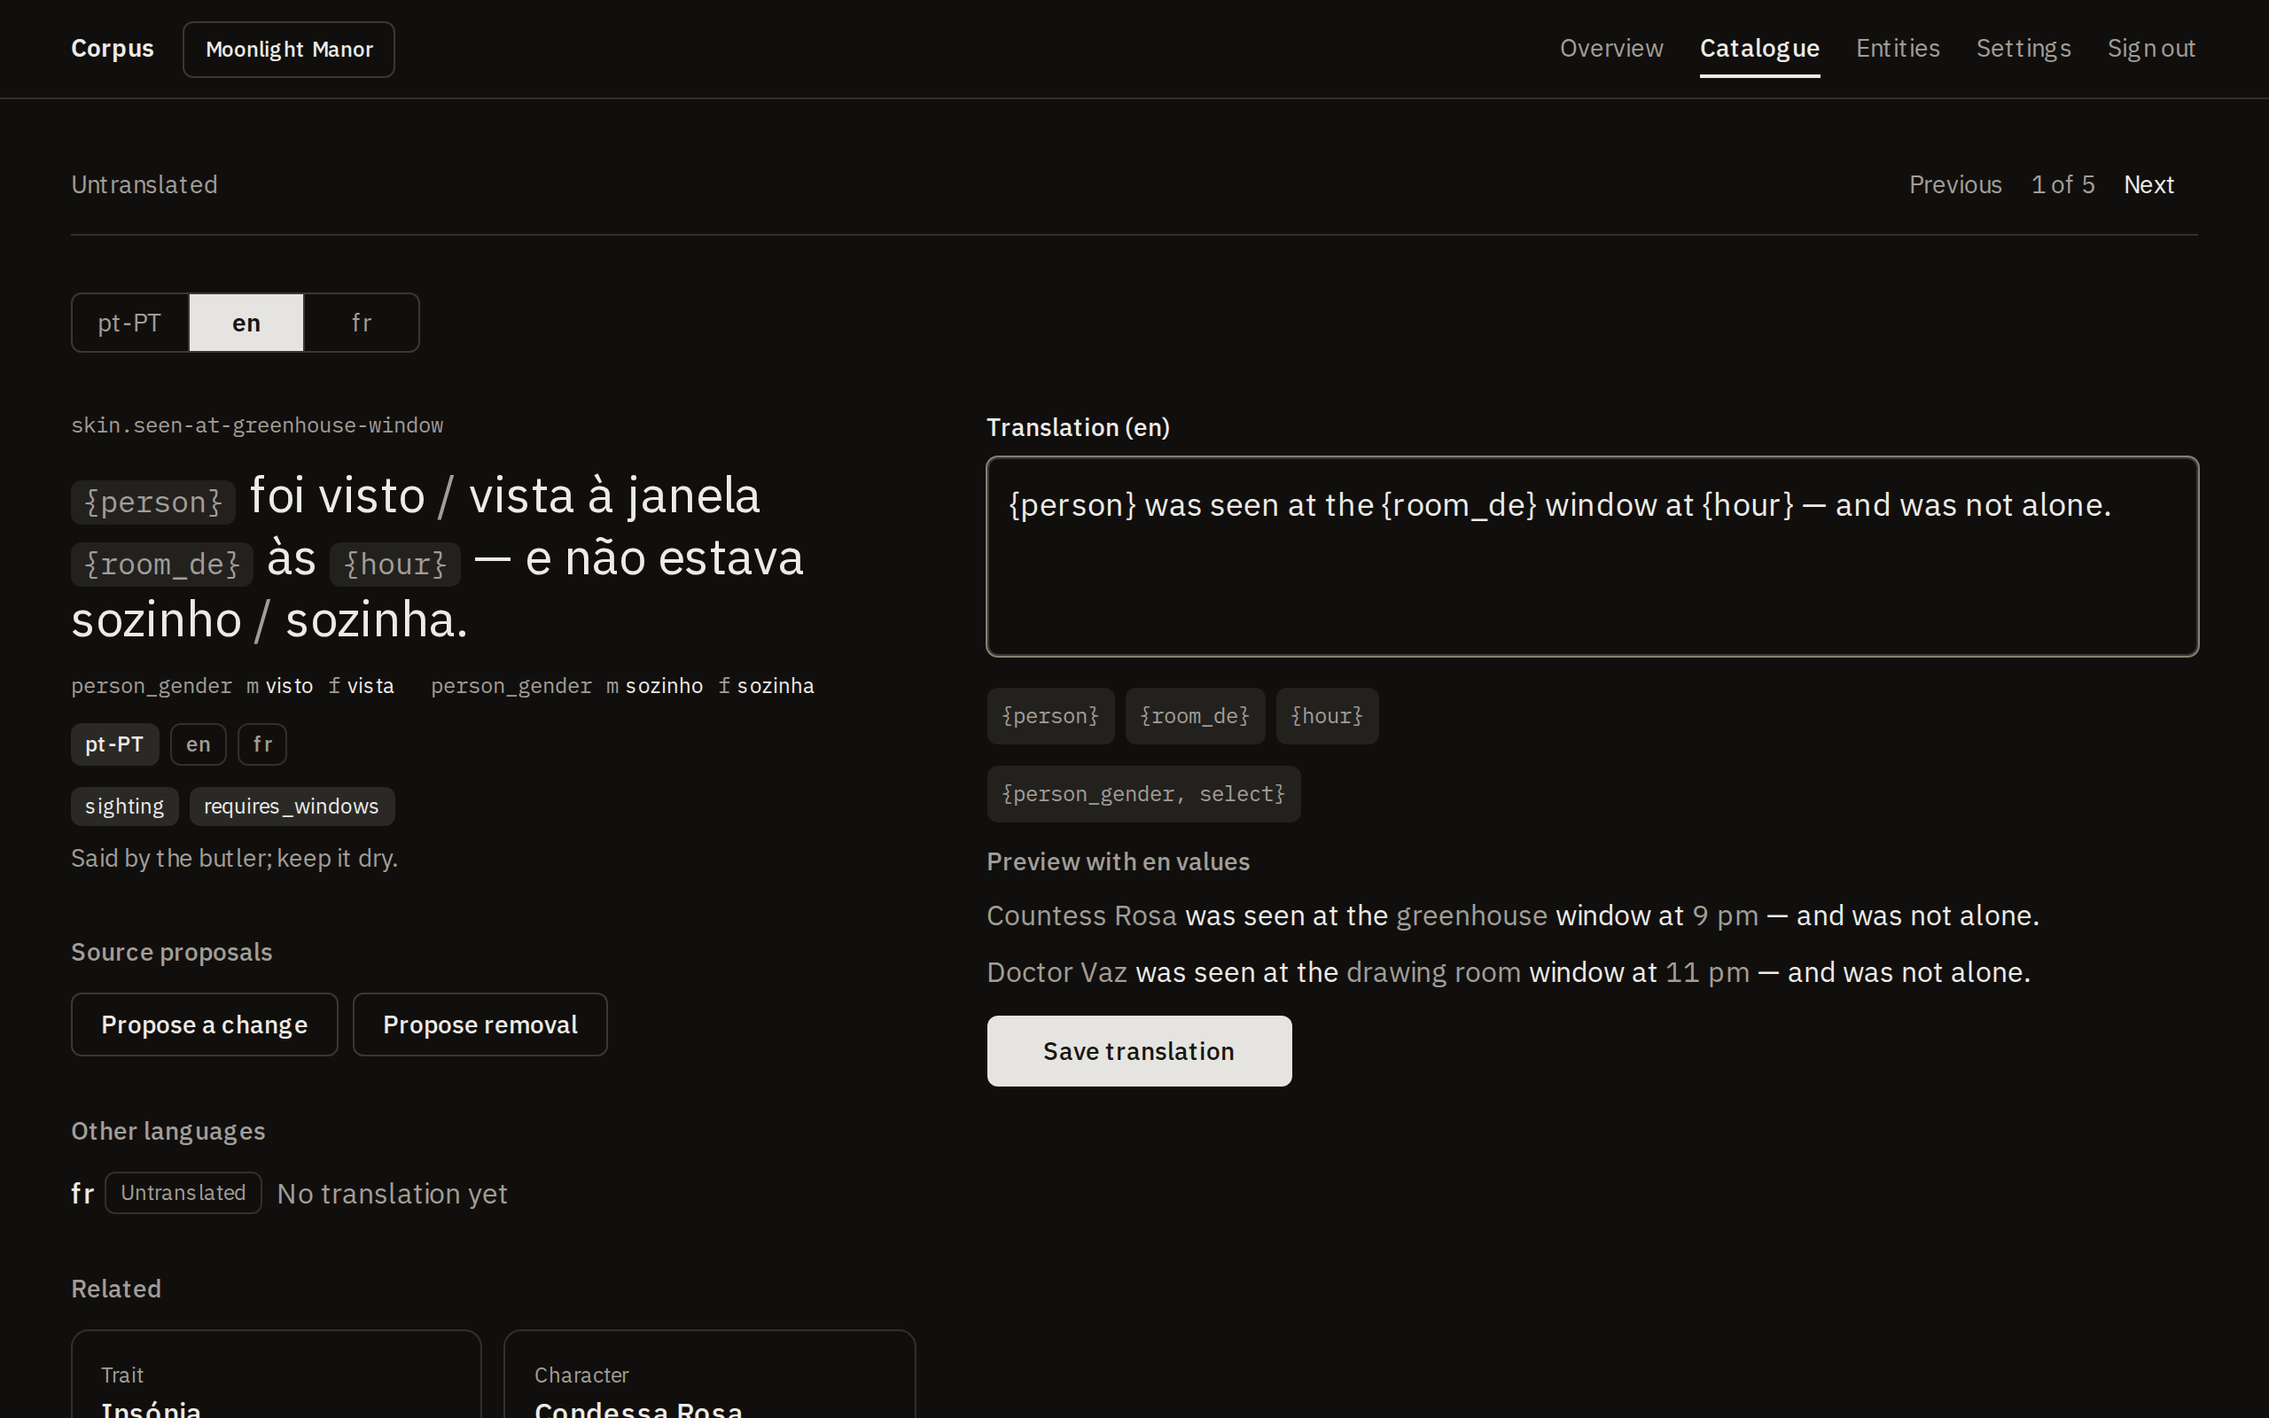
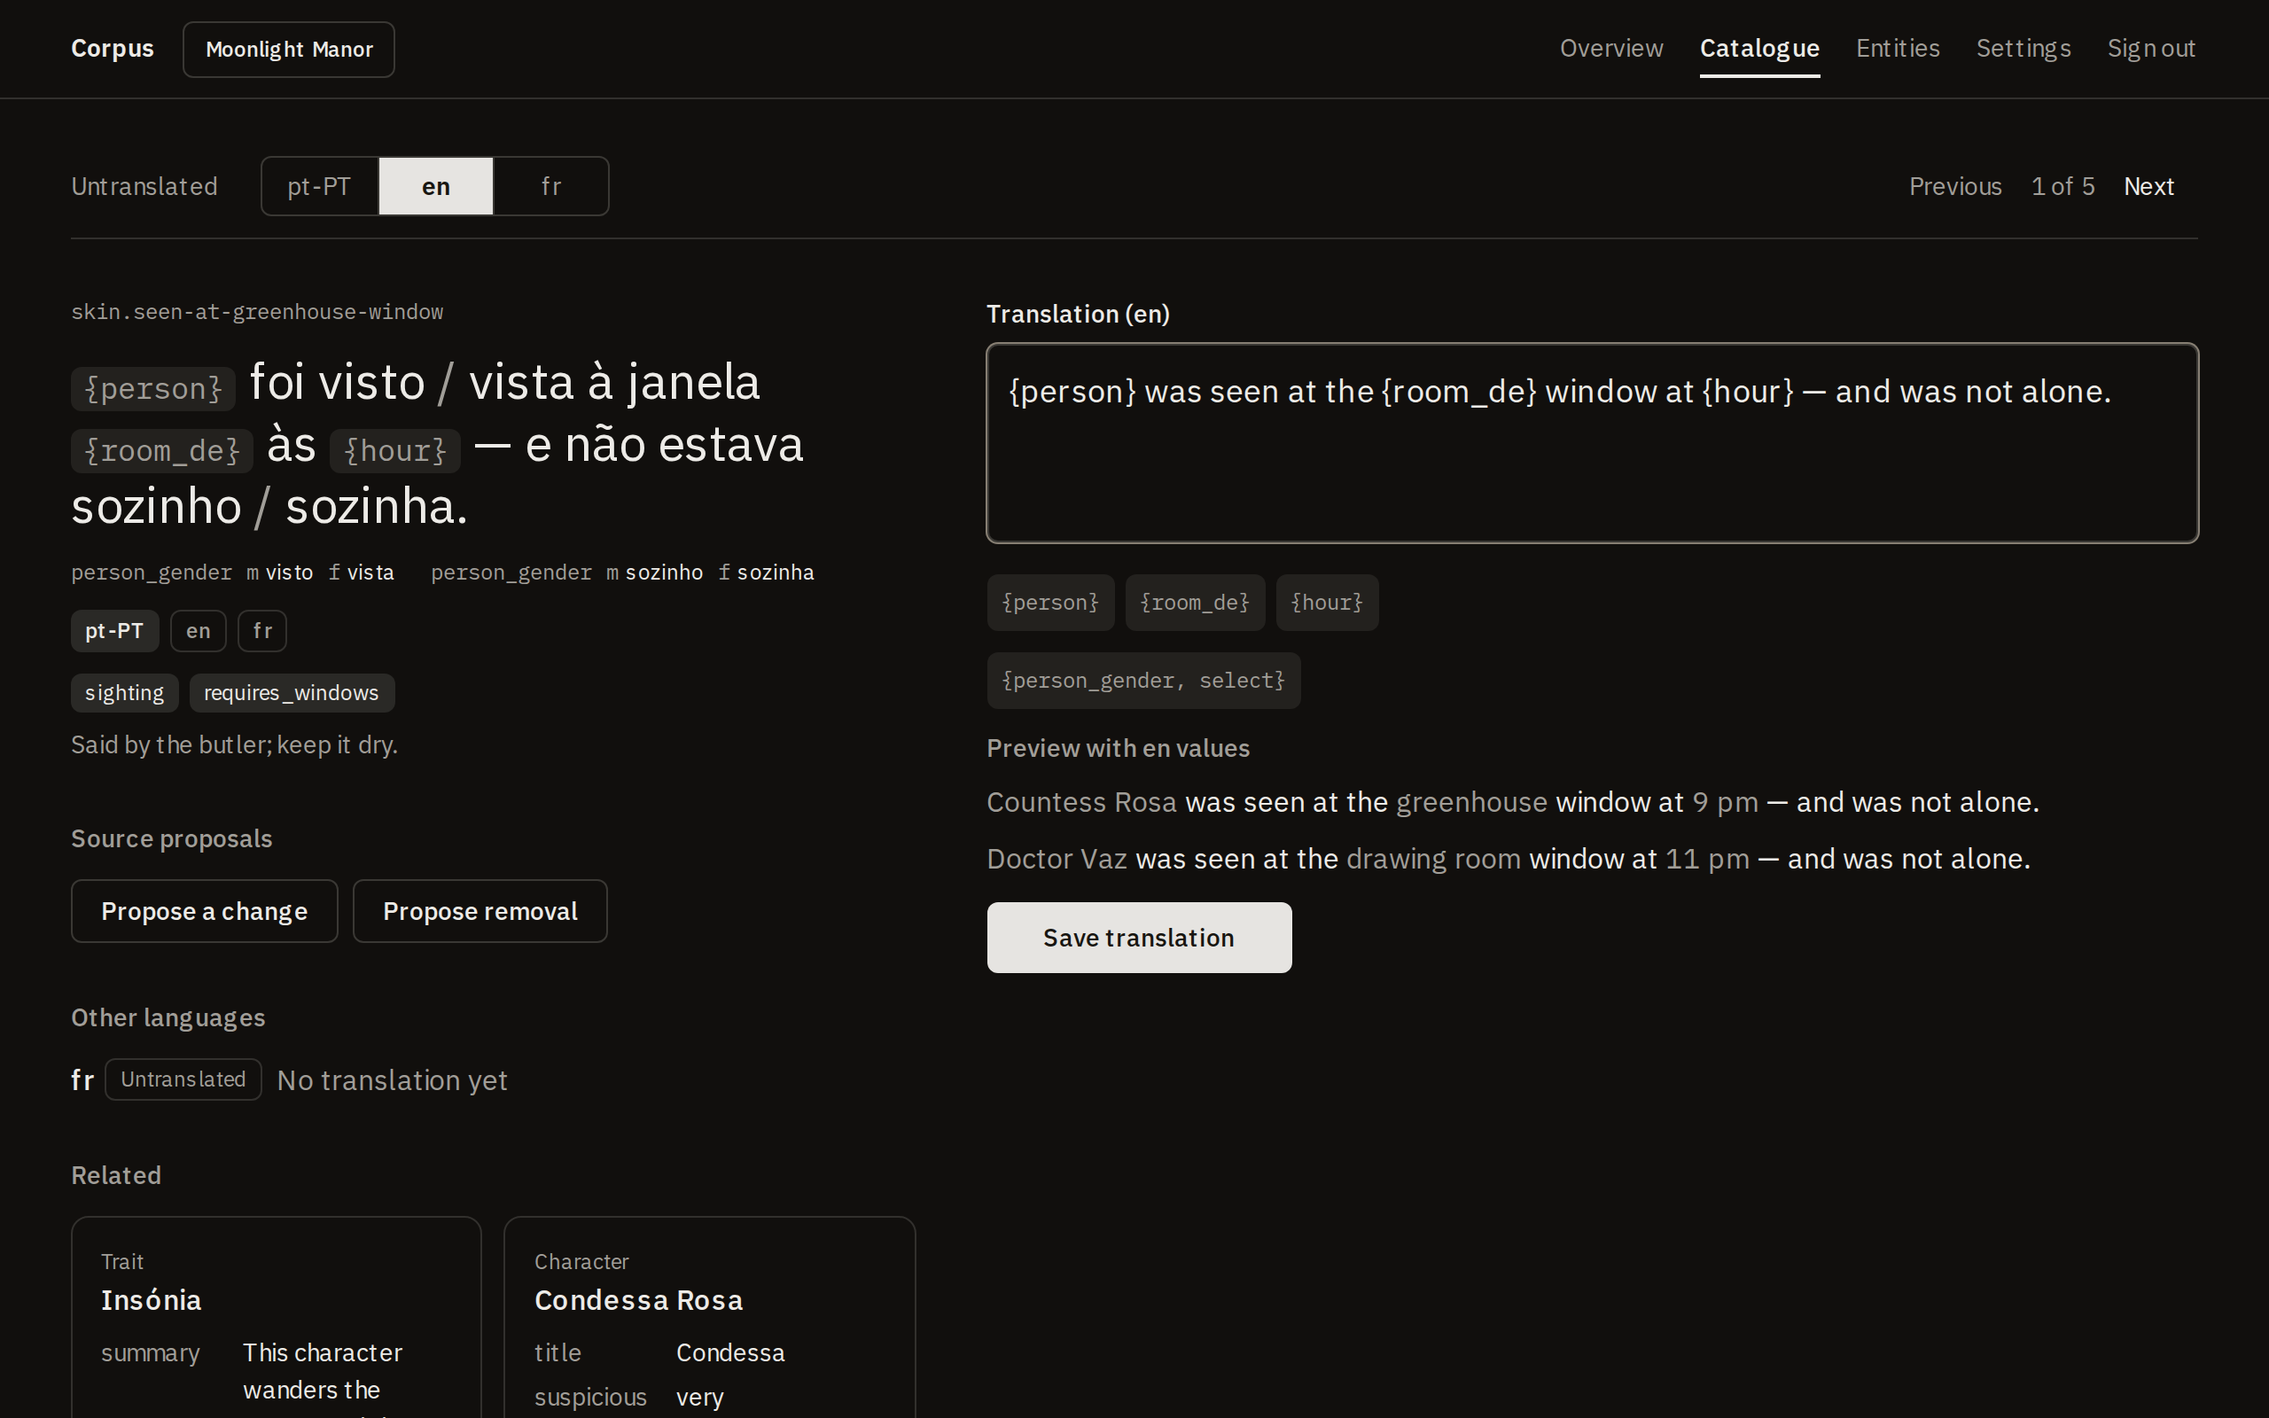
Language bar: review fixes
Inside the queue bar on a desktop through an inline children slot on
QueueNav, standalone when there is no queue, first on a phone; an
inset focus ring so it shows inside the clipped control; text-base
and text-sm from the type ramp; equal columns without a count; the
test proves the verified mark is the source's only; the smoke names
the bar's links exactly; the spec and the README alt say where the
bar is.

diff --git a/apps/web/src/app/p/[slug]/s/[stringId]/page.tsx b/apps/web/src/app/p/[slug]/s/[stringId]/page.tsx
@@ -147,36 +147,49 @@ export default async function StringPage({
   // and the page padded so the bar covers nothing.
   return (
     <Page width="wide" className="space-y-8 pb-32 lg:pb-8">
-      {queue && (
-        <div className="hidden lg:block">
-          <QueueNav
-            slug={slug}
-            queue={queue}
-            current={{ stringId: string.id, language }}
-            inline
+      {(() => {
+        const languageBar = (
+          <LanguageBar
+            languages={project.languages}
+            sourceLanguage={project.sourceLanguage}
+            selected={actedLanguage}
+            states={translations}
+            hrefFor={languageSwitchPath({
+              slug,
+              key: string.key,
+              sourceLanguage: project.sourceLanguage,
+              queue:
+                queueKind && queue
+                  ? {
+                      kind: queueKind,
+                      languages: queue.items
+                        .filter((item) => item.stringId === string.id)
+                        .map((item) => item.language),
+                    }
+                  : undefined,
+            })}
           />
-        </div>
-      )}
-      <LanguageBar
-        languages={project.languages}
-        sourceLanguage={project.sourceLanguage}
-        selected={actedLanguage}
-        states={translations}
-        hrefFor={languageSwitchPath({
-          slug,
-          key: string.key,
-          sourceLanguage: project.sourceLanguage,
-          queue:
-            queueKind && queue
-              ? {
-                  kind: queueKind,
-                  languages: queue.items
-                    .filter((item) => item.stringId === string.id)
-                    .map((item) => item.language),
-                }
-              : undefined,
-        })}
-      />
+        );
+        return (
+          <>
+            {queue ? (
+              <div className="hidden lg:block">
+                <QueueNav
+                  slug={slug}
+                  queue={queue}
+                  current={{ stringId: string.id, language }}
+                  inline
+                >
+                  {languageBar}
+                </QueueNav>
+              </div>
+            ) : (
+              <div className="hidden lg:block">{languageBar}</div>
+            )}
+            <div className="lg:hidden">{languageBar}</div>
+          </>
+        );
+      })()}
       <div
         className={
           editing

diff --git a/apps/web/src/components/queue-nav.tsx b/apps/web/src/components/queue-nav.tsx
@@ -1,3 +1,4 @@
+import type { ReactNode } from "react";
 import Link from "next/link";
 import { neighbours, type Queue, type QueueItem } from "@/catalogue/queues";
 import { stringPath } from "@/strings/paths";
@@ -15,6 +16,7 @@ export function QueueNav({
   queue,
   current,
   inline = false,
+  children,
 }: {
   slug: string;
   queue: Queue;
@@ -22,6 +24,9 @@ export function QueueNav({
   // A slim toolbar under the page header on desktop; thumb height in
   // the fixed bar on a phone.
   inline?: boolean;
+  // Inline only: a control beside the queue's name, left of the
+  // position (the language bar, §9.3).
+  children?: ReactNode;
 }) {
   const stepClass = inline ? STEP_INLINE : STEP;
   const { index, previous, next } = neighbours(queue, current);
@@ -37,6 +42,7 @@ export function QueueNav({
         <Link href={`/p/${slug}`} className="underline">
           {t(QUEUE_LABEL[queue.kind])}
         </Link>
+        {inline && children && <span className="ml-6">{children}</span>}
       </nav>
     );
   }
@@ -63,8 +69,11 @@ export function QueueNav({
       }
     >
       {inline && (
-        <span className="mr-auto text-sm text-muted-foreground">
-          {t(QUEUE_LABEL[queue.kind])}
+        <span className="mr-auto flex items-center gap-6">
+          <span className="text-sm text-muted-foreground">
+            {t(QUEUE_LABEL[queue.kind])}
+          </span>
+          {children}
         </span>
       )}
       {step(previous, t("queue.previous"))}

diff --git a/apps/web/src/components/language-bar.tsx b/apps/web/src/components/language-bar.tsx
@@ -24,10 +24,7 @@ export function LanguageBar({
   return (
     <nav
       aria-label={t("editor.languages")}
-      className="grid overflow-hidden rounded-md border border-input lg:inline-grid"
-      style={{
-        gridTemplateColumns: `repeat(${languages.length}, minmax(0, 1fr))`,
-      }}
+      className="grid auto-cols-fr grid-flow-col overflow-hidden rounded-md border border-input lg:inline-grid"
     >
       {languages.map((language, index) => {
         const current = language === selected;
@@ -39,11 +36,11 @@ export function LanguageBar({
             href={hrefFor(language)}
             aria-current={current ? "page" : undefined}
             className={cn(
-              "flex min-h-11 items-center justify-center gap-1.5 px-3 text-[15px] focus-visible:outline-none focus-visible:ring-1 focus-visible:ring-ring lg:min-h-8 lg:px-3.5 lg:text-sm",
+              "flex min-h-11 items-center justify-center gap-1.5 px-3 text-base focus-visible:outline-none focus-visible:ring-1 focus-visible:ring-inset focus-visible:ring-ring lg:min-h-8 lg:px-3.5 lg:text-sm",
               index > 0 && "border-l border-input",
               current
                 ? "bg-primary font-semibold text-primary-foreground"
-                : "text-muted-foreground hover:bg-accent hover:text-foreground",
+                : "text-muted-foreground hover:bg-accent hover:text-foreground focus-visible:bg-accent",
             )}
           >
             {language}

diff --git a/apps/web/e2e/smoke.spec.ts b/apps/web/e2e/smoke.spec.ts
@@ -133,15 +133,15 @@ test("a maintainer takes a string from pushed to verified on a phone", async ({
   await page.getByRole("link", { name: /seen-at-greenhouse-window/ }).click();
   await expectNoSidewaysOverflow(page);
 
-  // The language chips switch the target on the string itself (§9.3).
-  await page.getByRole("link", { name: /^en( stale)?$/ }).click();
+  // The language bar switches the target on the string itself (§9.3).
+  await page.getByRole("link", { name: "en", exact: true }).click();
   await page.waitForURL(/language=en/);
   await expect(page.getByRole("textbox")).toBeVisible();
-  await page.getByRole("link", { name: /^pt-PT( stale)?$/ }).click();
+  await page.getByRole("link", { name: "pt-PT", exact: true }).click();
   await page.waitForURL((url) => !url.search.includes("language="));
   await expect(page.getByRole("textbox")).toHaveCount(0);
   await expect(
-    page.getByRole("link", { name: /^pt-PT( stale)?$/ }),
+    page.getByRole("link", { name: "pt-PT", exact: true }),
   ).toHaveAttribute("aria-current", "page");
 
   // A third language: while editing one target, the other is readable

diff --git a/apps/web/src/components/language-bar.test.tsx b/apps/web/src/components/language-bar.test.tsx
@@ -14,6 +14,7 @@ function bar(selected = "en") {
       states={{
         "pt-PT": { state: "verified", stale: false },
         en: { state: "untranslated", stale: false },
+        fr: { state: "verified", stale: false },
       }}
       hrefFor={(language) =>
         language === "pt-PT" ? "/p/mm/s/k" : `/p/mm/s/k?language=${language}`
@@ -42,6 +43,6 @@ test("the source language carries its verified mark, hidden from the name", () =
   expect(source.getAttribute("aria-current")).toBe("page");
   expect(source.querySelector("[aria-hidden]")?.textContent).toBe("✓");
   expect(
-    screen.getByRole("link", { name: "en" }).querySelector("[aria-hidden]"),
+    screen.getByRole("link", { name: "fr" }).querySelector("[aria-hidden]"),
   ).toBeNull();
 });

diff --git a/docs/corpus-design.md b/docs/corpus-design.md
@@ -260,7 +260,7 @@ All surfaces are project-scoped under `/p/[slug]/…`, with a project switcher (
 
 1. **Dashboard** — per-language progress bars broken down by string type; **queues** as buttons: *untranslated (n)*, *stale (n)*, *unverified source (n)*. Tapping a queue opens the editor at its first item. A translator should never wonder what to work on. The same numbers, from the same query, are the `/api/status` response, read with the project token, and the output of `corpus status` (§3).
 2. **Catalogue** — every string; FTS5 search (accent-insensitive); facet filters auto-generated from metadata declarations plus type, state, language, archived. A language alone lists the strings with text in it (translated or verified, stale included); a state alone, the strings in that state in any language; both, that state in that language. Rows show per-language state chips and a pending mark when the string has a proposal; click into the editor. **Add a string** (anyone on the instance) takes a key, a source file chosen among the writable sources push declared, which fixes the type since a source has one, and the source text, validated as a source (§5); the key must be a valid identifier and not an existing id, active or archived, since an add on an existing key is an edit and on an archived one a restore, both done on the string itself. It records a pending add (§11). This surface is the aggregation/verification view and is fully useful before any translation exists.
-3. **Editor** — source left (branch view for selects, placeholder chips, metadata chips, entity cards in a side rail, examples), target right (chip-insertable placeholders — no hand-typed braces), live preview from the draft using example values (the selected language's when the example carries them, §7), save (→ `translated`) and verify (→ `verified`, maintainer only), visible attributed history, next/previous at thumb height to flow through a queue. Validation feedback is inline and specific ("missing {witness}"). A **language bar** under the queue bar is the switcher: one segment per language of the project, the selected one solid, the source language first with its verified mark, no words beside the codes; the queue the person came from is kept when the switched-to row is in it, and dropped otherwise, so next and previous never point at a row the queue does not contain; the source language's segment is the proofreading view. The state chips are display only. Placeholder chips keep the token as their text and show the resolved value on hover (§7). Under the source, anyone may **propose a change** to the source text (the same chips and validation as the target pane; the text must parse as a source) or **propose removal**; a pending proposal shows its text and author, can be withdrawn, and stays visible until a push lands or supersedes it, a newer proposal replaces it, or it is withdrawn. A string whose source pull cannot write, an `exec` source or a `.ts` or `.js` catalogue (§4), shows why instead of the buttons. Under the source pane, **the other languages**, every language except the source and the selected target, are readable: current text or a quiet "No translation yet", the state, stale marked; read only, so save and verify act on one target at a time.
+3. **Editor** — source left (branch view for selects, placeholder chips, metadata chips, entity cards in a side rail, examples), target right (chip-insertable placeholders — no hand-typed braces), live preview from the draft using example values (the selected language's when the example carries them, §7), save (→ `translated`) and verify (→ `verified`, maintainer only), visible attributed history, next/previous at thumb height to flow through a queue. Validation feedback is inline and specific ("missing {witness}"). A **language bar** at the top of the string page, inside the queue bar on a desktop, is the switcher: one segment per language of the project, the selected one solid, the source language first with its verified mark, no words beside the codes; the queue the person came from is kept when the switched-to row is in it, and dropped otherwise, so next and previous never point at a row the queue does not contain; the source language's segment is the proofreading view. The state chips are display only. Placeholder chips keep the token as their text and show the resolved value on hover (§7). Under the source, anyone may **propose a change** to the source text (the same chips and validation as the target pane; the text must parse as a source) or **propose removal**; a pending proposal shows its text and author, can be withdrawn, and stays visible until a push lands or supersedes it, a newer proposal replaces it, or it is withdrawn. A string whose source pull cannot write, an `exec` source or a `.ts` or `.js` catalogue (§4), shows why instead of the buttons. Under the source pane, **the other languages**, every language except the source and the selected target, are readable: current text or a quiet "No translation yet", the state, stale marked; read only, so save and verify act on one target at a time.
 4. **Entity browser** — read-only cards per entity type, narrowed by a type chip or a name search once a project has hundreds.
 5. **Maintainer corner** — project settings, push token (generate/rotate), snapshot history (when, counts, stale caused), language list, seen users. Visible to maintainers only. Adding a language creates an `untranslated` row for every active string at once (§11), so the dashboard, the queues and the catalogue show it without a push; removing one keeps its rows for when it comes back.
 

diff --git a/README.md b/README.md
@@ -17,7 +17,7 @@
 <p align="center">
   <picture>
     <source media="(prefers-color-scheme: dark)" srcset="docs/screenshots/editor-structured-desktop-dark.png">
-    <img src="docs/screenshots/editor-structured-desktop-light.png" width="960" alt="The editor: on the left a source sentence whose gendered select reads inline as visto / vista with a strip naming its keys, the language bar that switches the target, the other languages' current text, and the related trait and characters beneath; on the right the English draft with insertable placeholder and select chips, two live previews built from the example's English values, and the save button.">
+    <img src="docs/screenshots/editor-structured-desktop-light.png" width="960" alt="The editor: the language bar in the queue bar at the top; on the left a source sentence whose gendered select reads inline as visto / vista with a strip naming its keys, the other languages' current text, and the related trait and characters beneath; on the right the English draft with insertable placeholder and select chips, two live previews built from the example's English values, and the save button.">
   </picture>
 </p>
 
